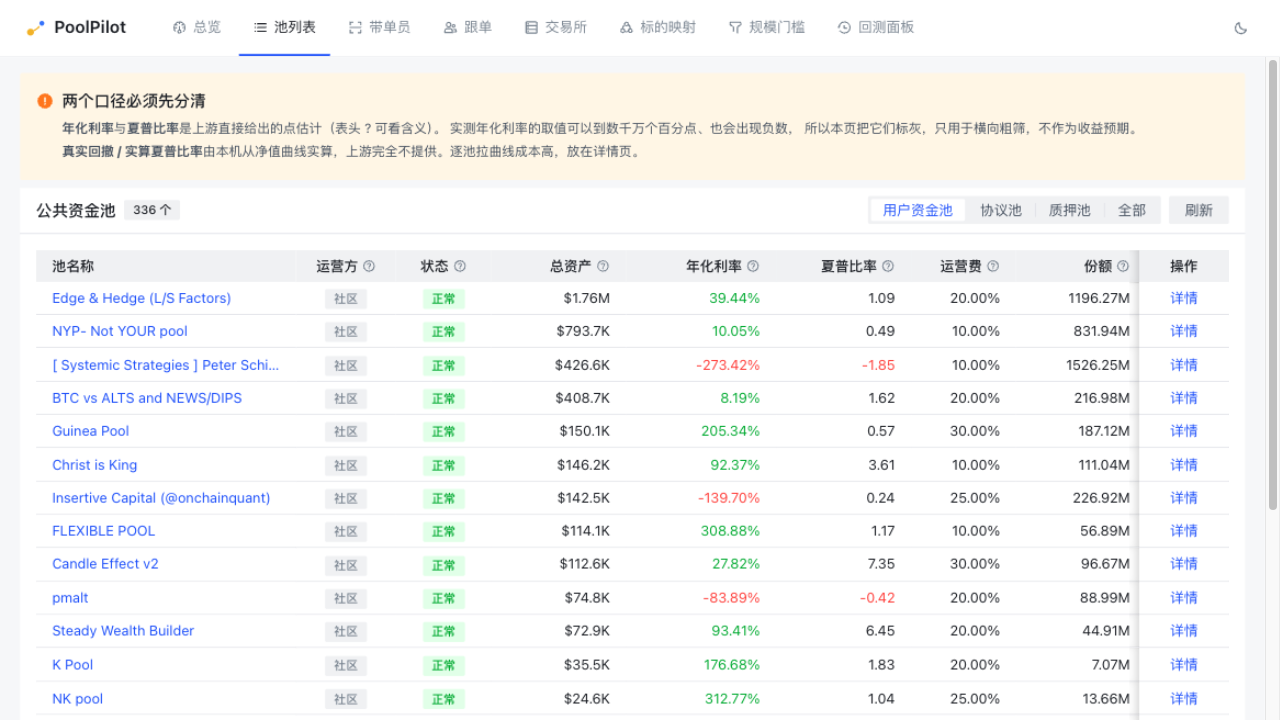
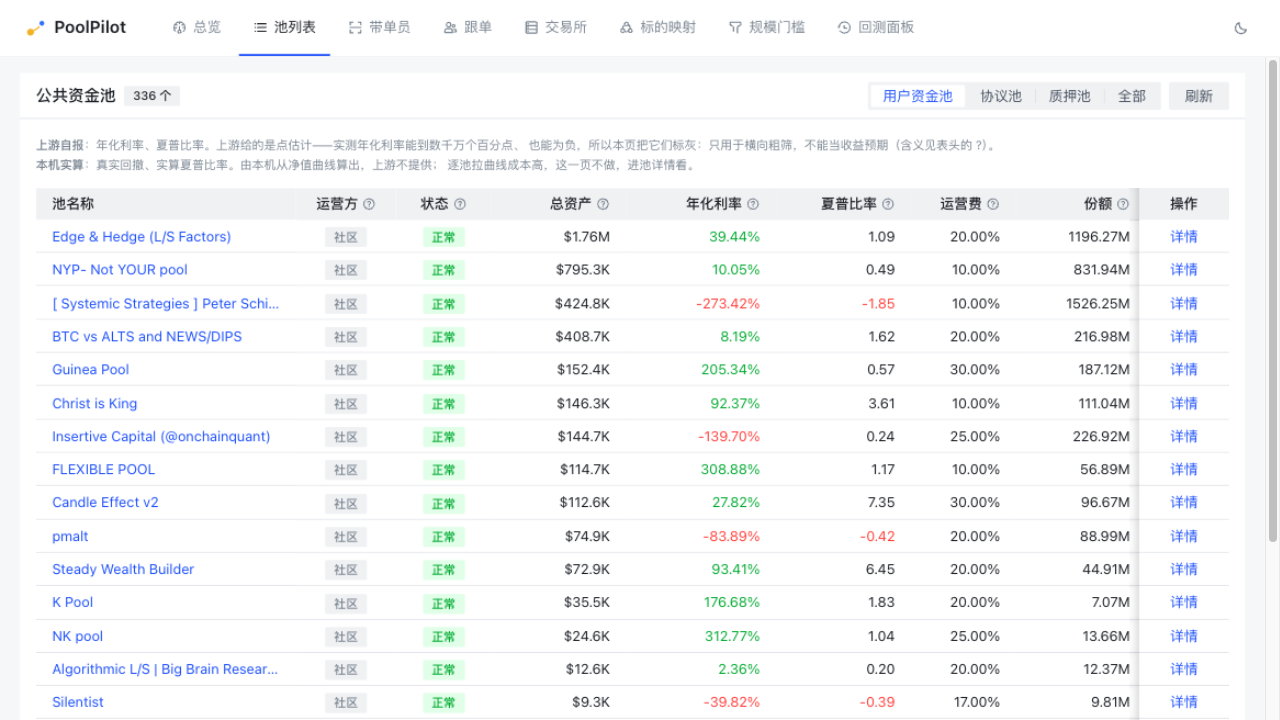
池列表页说明改写并挪进卡片；修 Live 漏损测试测成"行情漂移"的缺陷
**说明文案**：原来的告警条标题是「两个口径必须先分清」，正文却把"来源"埋在句子中间——
读完才知道哪两列是上游自报、哪两列是本机实算。改成两句各以来源开头
（`上游自报：…` / `本机实算：…`），并把它从顶部告警条挪进卡片、表格上方，
与带单员页的页内说明同一形制（12px / text-3 / 1.7 行高）：它讲的是"这两列数字该怎么读"，
是表的读法，不是一条要处理的警告。

**Live 测试**：`EndToEnd_SlippageCalculationStaysWithinMeasuredSpreadScale` 红了，查下去不是
产品缺陷，是这条测试在测漂移：它按"最活跃市场"取样，取到的是 7.8 小时前 NEAR 的成交价 5.05923，
与此刻盘口 5.1752 相比得出 -223 bps——这 2.2% 全是价格漂移，而走同样尺寸的盘口实测只吃约 1 bp
（最优价 5.17517 / 我方均价 5.17465）。

改成两段：第一段**与样本新旧无关**，拿同一张盘口的最优价作参考算走盘口的摩擦（这才是"深盘数个基点"
那句话在断言的东西）；第二段才与池子成交价比较，且要求样本在 10 分钟内，否则 Inconclusive 并写明
"漂移会盖过摩擦成本"——宁可显式 Inconclusive，也不让它继续拿旧价冒充摩擦。

diff --git a/web/src/views/PoolList.vue b/web/src/views/PoolList.vue
@@ -47,20 +47,6 @@ onMounted(load)
 
 <template>
   <a-space direction="vertical" fill style="width: 100%">
-    <a-alert type="warning" :show-icon="true">
-      <template #title>两个口径必须先分清</template>
-      <div style="font-size: 13px; line-height: 1.8">
-        <div>
-          <b>年化利率</b>与<b>夏普比率</b>是上游直接给出的点估计（表头 ? 可看含义）。
-          实测年化利率的取值可以到数千万个百分点、也会出现负数，
-          所以本页把它们标灰，只用于横向粗筛，不作为收益预期。
-        </div>
-        <div>
-          <b>真实回撤 / 实算夏普比率</b>由本机从净值曲线实算，上游完全不提供。逐池拉曲线成本高，放在详情页。
-        </div>
-      </div>
-    </a-alert>
-
     <a-card :bordered="false">
       <template #title>
         <a-space>
@@ -80,6 +66,19 @@ onMounted(load)
           <a-button size="small" :loading="loading" @click="load">刷新</a-button>
         </a-space>
       </template>
+
+      <!-- 表前说明与带单员页同一种形制：卡片内、表头上的浅色小字。
+           不立成告警条——它讲的是"这两列数字该怎么读"，是表的读法，不是一条要处理的警告 -->
+      <div class="list-note">
+        <div>
+          <b>上游自报</b>：年化利率、夏普比率。上游给的是点估计——实测年化利率能到数千万个百分点、
+          也能为负，所以本页把它们标灰：只用于横向粗筛，不能当收益预期（含义见表头的 ?）。
+        </div>
+        <div>
+          <b>本机实算</b>：真实回撤、实算夏普比率。由本机从净值曲线算出，上游不提供；
+          逐池拉曲线成本高，这一页不做，进池详情看。
+        </div>
+      </div>
 
       <a-alert v-if="errorMessage" type="error" :title="errorMessage" style="margin-bottom: 12px" />
 
@@ -240,6 +239,15 @@ onMounted(load)
 </template>
 
 <style scoped>
+/* 表前说明：与带单员页的页内说明同一档（12px / text-3 / 1.7 行高）。
+   两行分列两个来源，行与行之间不用空行——它是一段说明的两句话，不是两个段落 */
+.list-note {
+  margin-bottom: 12px;
+  font-size: 12px;
+  line-height: 1.7;
+  color: var(--color-text-3);
+}
+
 /* 表格里的链接。RouterLink 渲染的是真 `<a href>`，所以这里只负责观感：
    去掉下划线、给一个可辨识的颜色和指针，并与 Arco 的链接色一致。 */
 .cell-link {

diff --git a/tests/PoolPilot.Lighter.Tests/LighterLiveContractTests.cs b/tests/PoolPilot.Lighter.Tests/LighterLiveContractTests.cs
@@ -372,15 +372,18 @@ public sealed class LighterLiveContractTests
         // Act
         IReadOnlyList<PoolTrade> trades = await client.FetchRecentTradesAsync(account);
 
-        // **不写死市场**：实测该池的交易标的会整个换掉（ENA → ZRO → PUMP），
-        // 写死 ENA 会让这个测试在该池换标的后永久跳过——名义上还在、实际什么都不测。
-        // 改为取"近期成交最活跃的市场"，它衡量的是"池子现在做的这一笔的摩擦成本"，
-        // 与池子当前在做什么保持一致。
+        // **样本取"刚刚那一笔"**：与池子的成交价作比较，前提是我方盘口与那笔成交同时刻。
+        // 实测反例（2026-10-14 02:53）：原先按"最活跃市场"取到的是 7.8 小时前 NEAR 的成交价 5.05923，
+        // 而那一刻盘口是 5.1752——差的 2.2% 全是这段时间的价格漂移，与摩擦成本无关，
+        // 却把这条断言顶红（-223 bps）。样本越旧，它测的就越是"行情走了多少"。
+        //
+        // 仍然**不写死市场**：该池的交易标的会整个换掉（ENA → ZRO → PUMP），写死一个市场
+        // 会在这个池换标的后永久跳过——名义上还在、实际什么都不测。按时间取最新一笔，
+        // 标的换了也自动跟上，同时保证样本是"池子现在正在做的那件事"。
         PoolTrade? sample = trades
             .Where(t => t.IsRegularTrade)
-            .GroupBy(t => t.MarketId)
-            .OrderByDescending(g => g.Count())
-            .FirstOrDefault()?.FirstOrDefault();
+            .OrderByDescending(t => t.Timestamp.Utc)
+            .FirstOrDefault();
 
         if (sample is null)
         {
@@ -397,12 +400,38 @@ public sealed class LighterLiveContractTests
             sample.Size,
             sample.Price);
 
+        // 第一段：盘口摩擦本身——**与样本新旧无关**，任何时候都能算，所以先跑。
+        // 参考价取同一张盘口的最优价：两边同时刻，没有漂移掺进来，量出来的就是"走这个尺寸要吃多少"。
+        decimal bestOnOurSide = followerSide == OrderSide.Buy ? book.BestAsk!.Value : book.BestBid!.Value;
+        decimal walkBps = Math.Abs(CopySlippageCalculator.ComputeSlippageBps(
+            slippage.OurVwap,
+            PriceAmount.From(bestOnOurSide),
+            followerSide));
+
+        Assert.IsLessThan(
+            100m,
+            walkBps,
+            $"{sample.MarketId} 号市场走 {sample.Size} 的盘口摩擦 {walkBps:F2} bps 异常"
+            + $"（最优价 {bestOnOurSide}、我方均价 {slippage.OurVwap.Value}、吃满={slippage.DepthSufficient}）");
+
+        // 第二段：与池子成交价比较——只有样本够新，这个比较才在测摩擦而不是测漂移。
+        // 阈值 10 分钟：这个池活跃时几分钟一笔，10 分钟内的漂移远小于判据的 200 bps 量级。
+        TimeSpan age = DateTimeOffset.UtcNow - sample.Timestamp.Utc;
+        if (age > TimeSpan.FromMinutes(10))
+        {
+            Assert.Inconclusive(
+                $"最近一笔成交在 {age.TotalMinutes:F0} 分钟前（{sample.MarketId} 号市场），"
+                + "价格漂移会盖过摩擦成本，无法校验与池子成交价的量级");
+            return;
+        }
+
         // Assert：量级应与实测价差结构一致（深盘数个基点），而不是几百个基点。
         // 这是整个方案的决策门——若算出的摩擦成本与实测量级不符，后面的跟单设计都无意义。
         Assert.IsLessThan(
             200m,
             Math.Abs(slippage.SlippageBps),
-            $"{sample.MarketId} 号市场漏损 {slippage.SlippageBps:F2} bps 量级异常");
+            $"{sample.MarketId} 号市场漏损 {slippage.SlippageBps:F2} bps 量级异常"
+            + $"（样本成交于 {age.TotalMinutes:F1} 分钟前）");
         Assert.AreEqual(followerSide, slippage.Side);
     }
 }
